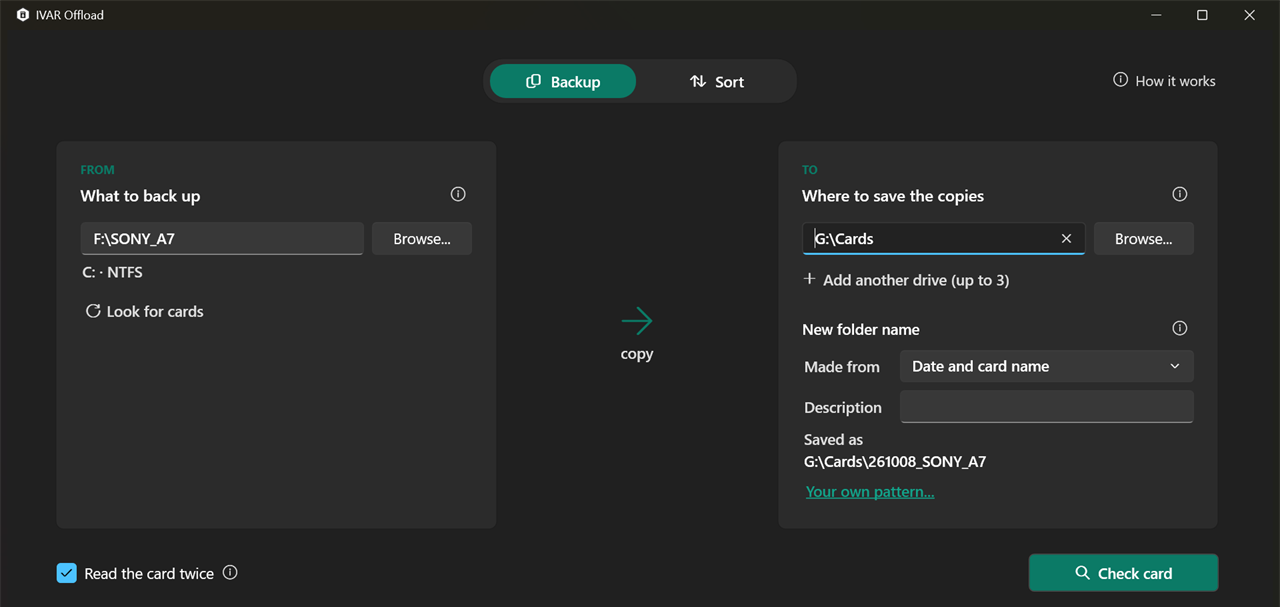
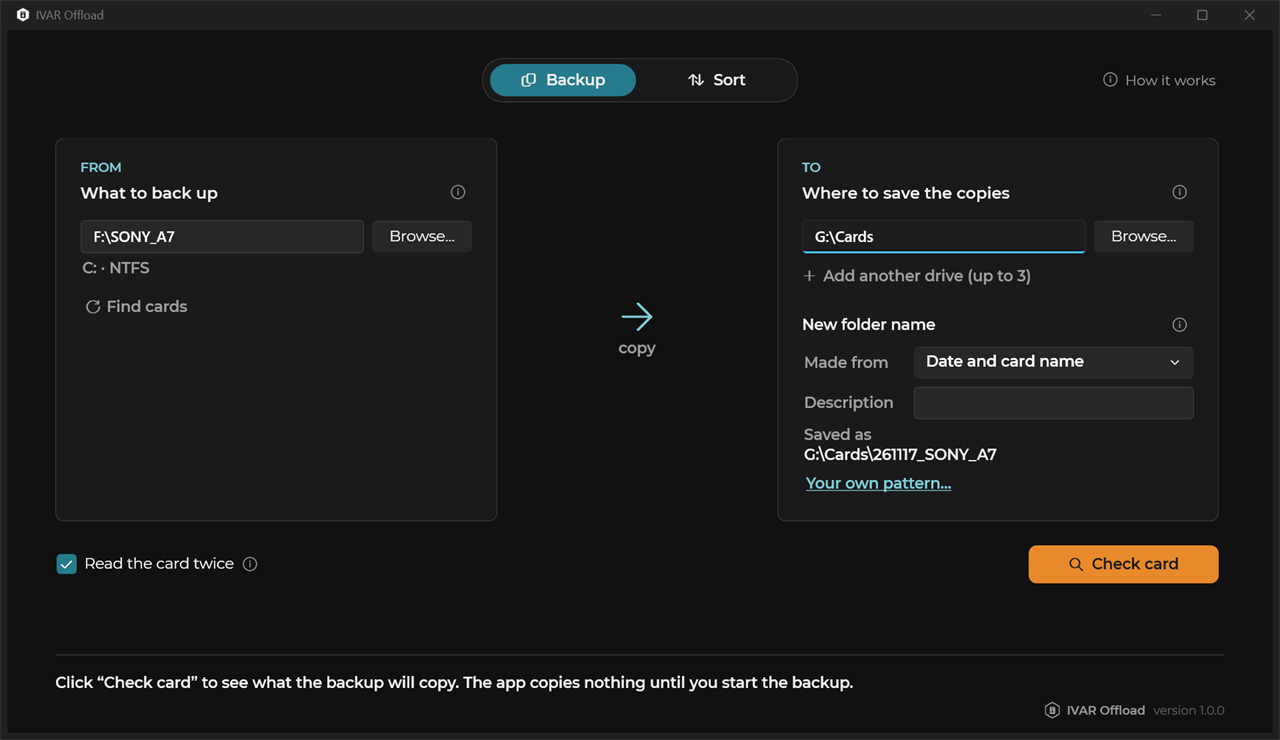
README: screenshot and notes for the design system
A new screenshot of the Backup tab in the IVAR Studios design system, a note
on where the theme colours are, and the Montserrat font in the third-party
notices line.

diff --git a/README.md b/README.md
@@ -650,6 +650,9 @@ release notes list the SHA-256 of the zip files.
   finds the drive automatically.
 - The window uses software rendering on purpose. With virtual display adapters (Parsec), the GPU path of WPF can show a
   blank first frame.
+- The window uses the IVAR Studios design system. The colours for the light and the dark theme are in
+  `src/IvarOffload.App/Themes`. Teal is for labels, links and the selected tab. Orange is only for the one main button
+  on each screen. The Montserrat font is in the exe, so a PC does not need to have the font.
 
 ## License
 
@@ -660,7 +663,8 @@ must include its source code.
 The IVAR name and the IVAR Studios logo are trademarks of IVAR Studios. The GPL does not give a license for them
 (section 7(e) of the license). If you distribute a changed version, it must have its own name and icon.
 
-[THIRD-PARTY-NOTICES.md](THIRD-PARTY-NOTICES.md) covers the .NET runtime that the published programs include.
+[THIRD-PARTY-NOTICES.md](THIRD-PARTY-NOTICES.md) covers the .NET runtime that the published programs include, and the
+Montserrat font (SIL Open Font License 1.1).
 
 [issues]: https://github.com/ivarstudios/ivar-offload/issues
 [i1]: https://github.com/ivarstudios/ivar-offload/issues/1
